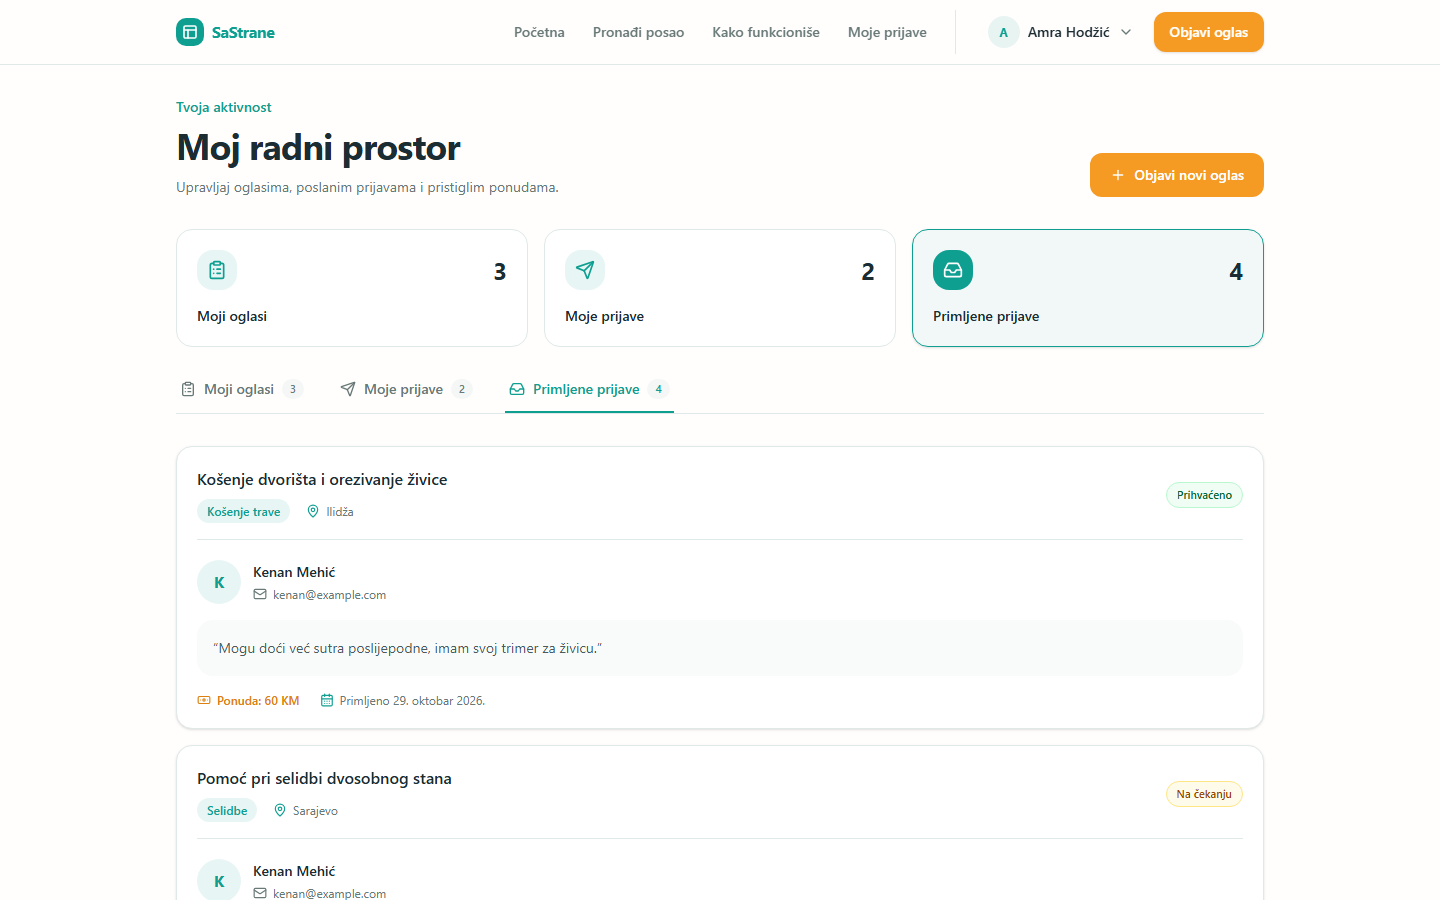
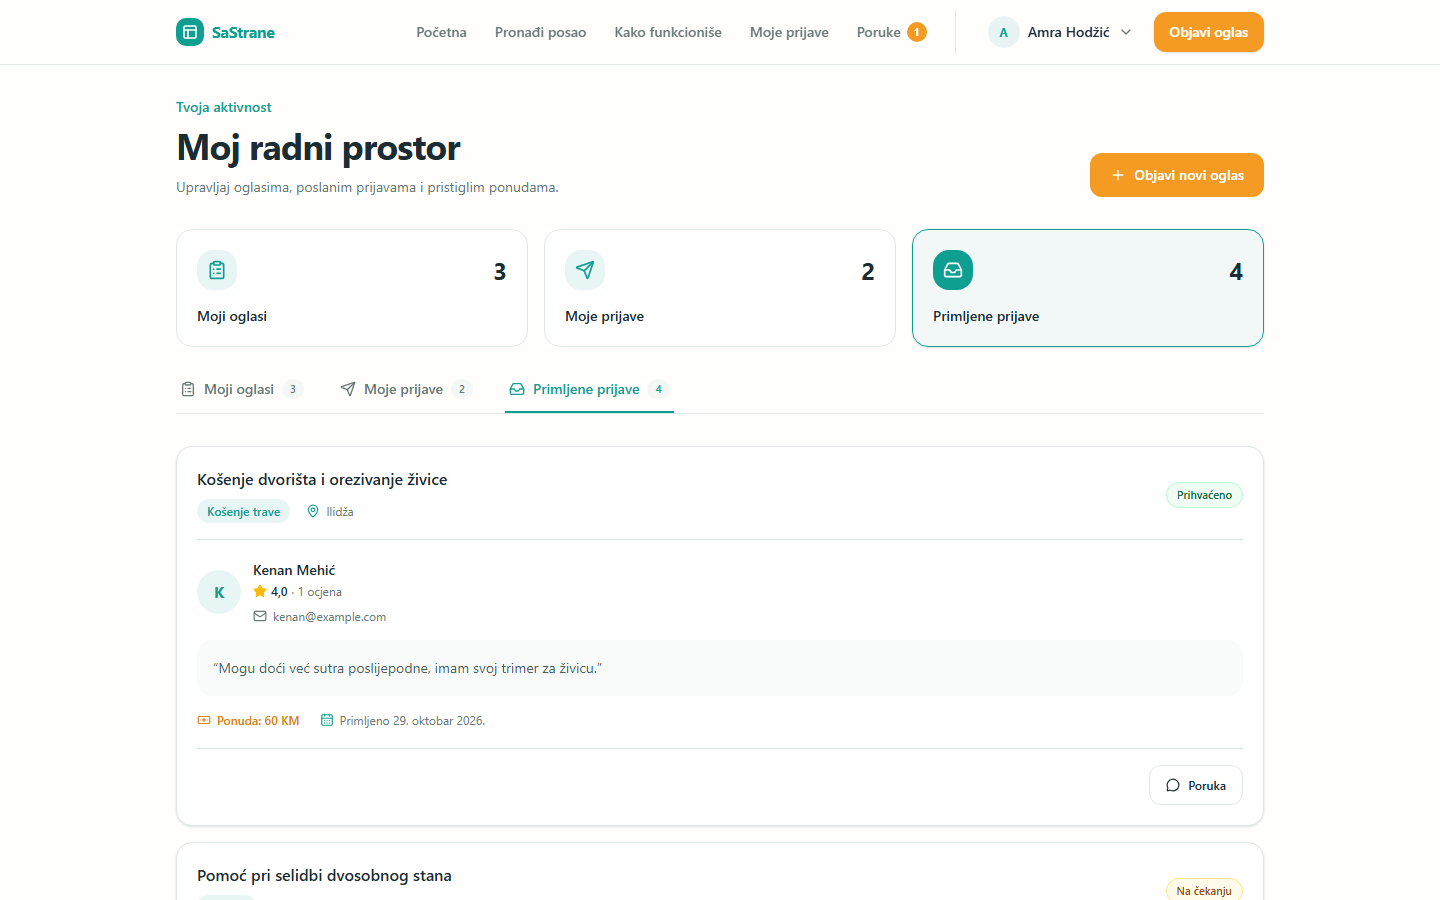
docs: retake the README screenshots with job photos
The seed uploads seven CC0 demo photos and skips them when storage is down. Adds the messages and public profile screenshots.

diff --git a/backend/prisma/seed.ts b/backend/prisma/seed.ts
@@ -1,12 +1,17 @@
-// Demo data for local development: four users, ten jobs, seven applications,
-// two ratings and three conversations, with Bosnian text as in real use.
-// Every demo user signs in with the password below.
+// Demo data for local development: four users, ten jobs, seven photos,
+// seven applications, two ratings and three conversations, with Bosnian
+// text as in real use. Every demo user signs in with the password below.
 //
 // Run it with `npx prisma db seed`. It upserts fixed IDs, so a second run
-// changes nothing, and it never deletes data.
+// changes nothing, and it never deletes data. The photos need the storage
+// from docker-compose.yml and `npm run storage:init`; without it, the seed
+// skips them.
 import { existsSync } from 'node:fs';
+import { readFile } from 'node:fs/promises';
+import { HeadBucketCommand, PutObjectCommand } from '@aws-sdk/client-s3';
 import { PrismaPg } from '@prisma/adapter-pg';
 import bcrypt from 'bcrypt';
+import { validateStorage } from '../src/config/environment.js';
 import { PrismaClient } from '../src/generated/prisma/client.js';
 import {
   ApplicationStatus,
@@ -14,6 +19,9 @@ import {
   ListingLocation,
   ListingStatus,
 } from '../src/generated/prisma/enums.js';
+import { processPhoto } from '../src/listings/photos/photo-image.js';
+import { photoKeys } from '../src/listings/photos/photo-keys.js';
+import { createS3Client, IMMUTABLE_CACHE } from '../src/storage/s3-client.js';
 
 const DEMO_PASSWORD = 'demo-password-123';
 const HOUR_MS = 60 * 60 * 1000;
@@ -234,6 +242,38 @@ const applications = [
   },
 ];
 
+// Photos from prisma/seed-photos, listed in SOURCES.md there. A job's
+// first photo is its cover.
+const photos = [
+  {
+    id: 'seed-photo-lawn-1',
+    listingId: 'seed-listing-lawn',
+    file: 'lawn-1.jpg',
+  },
+  {
+    id: 'seed-photo-lawn-2',
+    listingId: 'seed-listing-lawn',
+    file: 'lawn-2.jpg',
+  },
+  {
+    id: 'seed-photo-lawn-3',
+    listingId: 'seed-listing-lawn',
+    file: 'lawn-3.jpg',
+  },
+  { id: 'seed-photo-car', listingId: 'seed-listing-car', file: 'car.jpg' },
+  {
+    id: 'seed-photo-cleaning',
+    listingId: 'seed-listing-cleaning',
+    file: 'cleaning.jpg',
+  },
+  {
+    id: 'seed-photo-fence',
+    listingId: 'seed-listing-fence',
+    file: 'fence.jpg',
+  },
+  { id: 'seed-photo-tv', listingId: 'seed-listing-tv', file: 'tv.jpg' },
+];
+
 // Ratings for accepted applications on closed jobs. The lawn job is still
 // open, so Amra can close it and rate Kenan herself.
 const ratings = [
@@ -326,6 +366,65 @@ const conversations: {
   },
 ];
 
+// Uploads the photos that are not in the database yet, as the API would.
+// Returns how many it added, or null when the storage is not reachable.
+async function seedPhotos(prisma: PrismaClient): Promise<number | null> {
+  const seeded = await prisma.listingPhoto.findMany({
+    where: { id: { in: photos.map((photo) => photo.id) } },
+    select: { id: true },
+  });
+  const done = new Set(seeded.map((photo) => photo.id));
+  const missing = photos.filter((photo) => !done.has(photo.id));
+  if (missing.length === 0) return 0;
+
+  const storage = validateStorage(process.env, false);
+  const client = createS3Client(storage);
+  const Bucket = storage.S3_BUCKET;
+  try {
+    try {
+      await client.send(new HeadBucketCommand({ Bucket }));
+    } catch {
+      return null;
+    }
+
+    for (const photo of missing) {
+      const input = await readFile(
+        new URL(`seed-photos/${photo.file}`, import.meta.url),
+      );
+      const { large, thumbnail } = await processPhoto(input);
+      const keys = photoKeys(photo.listingId, photo.id);
+      for (const [Key, Body] of [
+        [keys.large, large.data],
+        [keys.thumbnail, thumbnail],
+      ] as const) {
+        await client.send(
+          new PutObjectCommand({
+            Bucket,
+            Key,
+            Body,
+            ContentType: 'image/webp',
+            CacheControl: IMMUTABLE_CACHE,
+          }),
+        );
+      }
+      await prisma.listingPhoto.create({
+        data: {
+          id: photo.id,
+          listingId: photo.listingId,
+          position: photos
+            .filter((other) => other.listingId === photo.listingId)
+            .indexOf(photo),
+          width: large.width,
+          height: large.height,
+        },
+      });
+    }
+    return missing.length;
+  } finally {
+    client.destroy();
+  }
+}
+
 async function main() {
   if (process.env.NODE_ENV === 'production') {
     throw new Error('The demo seed must not run in production.');
@@ -366,6 +465,13 @@ async function main() {
         update: {},
         create: { ...listing, createdAt: hoursAgo(age) },
       });
+    }
+
+    const addedPhotos = await seedPhotos(prisma);
+    if (addedPhotos === null) {
+      console.warn(
+        'Skipped the photos: the storage is not reachable. Run `docker compose up -d` and `npm run storage:init`, then seed again.',
+      );
     }
 
     for (const { hoursAgo: age, ...application } of applications) {
@@ -423,7 +529,7 @@ async function main() {
     }
 
     console.log(
-      `Seeded ${users.length} users, ${listings.length} jobs, ${applications.length} applications, ${ratings.length} ratings and ${conversations.length} conversations.`,
+      `Seeded ${users.length} users, ${listings.length} jobs, ${addedPhotos === null ? 0 : photos.length} photos, ${applications.length} applications, ${ratings.length} ratings and ${conversations.length} conversations.`,
     );
     console.log(`Sign in as amra@example.com with ${DEMO_PASSWORD}.`);
   } finally {

diff --git a/backend/scripts/storage-init.ts b/backend/scripts/storage-init.ts
@@ -6,10 +6,10 @@ import { existsSync } from 'node:fs';
 import {
   CreateBucketCommand,
   HeadBucketCommand,
-  S3Client,
   S3ServiceException,
 } from '@aws-sdk/client-s3';
 import { validateStorage } from '../src/config/environment.js';
+import { createS3Client } from '../src/storage/s3-client.js';
 
 // Values already in the environment win over .env.
 if (existsSync('.env')) process.loadEnvFile('.env');
@@ -18,15 +18,7 @@ const storage = validateStorage(
   process.env,
   process.env.NODE_ENV === 'production',
 );
-const client = new S3Client({
-  endpoint: storage.S3_ENDPOINT,
-  region: storage.S3_REGION,
-  forcePathStyle: storage.S3_FORCE_PATH_STYLE,
-  credentials: {
-    accessKeyId: storage.S3_ACCESS_KEY_ID,
-    secretAccessKey: storage.S3_SECRET_ACCESS_KEY,
-  },
-});
+const client = createS3Client(storage);
 const Bucket = storage.S3_BUCKET;
 
 try {

diff --git a/backend/src/storage/s3-client.ts b/backend/src/storage/s3-client.ts
@@ -1,0 +1,22 @@
+import { S3Client } from '@aws-sdk/client-s3';
+import type { validateStorage } from '../config/environment.js';
+
+export type StorageConfig = ReturnType<typeof validateStorage>;
+
+// A key is never written twice: a changed photo gets a new key. Browsers and
+// CDNs may therefore keep a file for a year.
+export const IMMUTABLE_CACHE = 'public, max-age=31536000, immutable';
+
+// For the scripts, which run without Nest: storage-init and the seed.
+export function createS3Client(storage: StorageConfig) {
+  return new S3Client({
+    endpoint: storage.S3_ENDPOINT,
+    region: storage.S3_REGION,
+    forcePathStyle: storage.S3_FORCE_PATH_STYLE,
+    credentials: {
+      accessKeyId: storage.S3_ACCESS_KEY_ID,
+      secretAccessKey: storage.S3_SECRET_ACCESS_KEY,
+    },
+    maxAttempts: 2,
+  });
+}

diff --git a/backend/src/storage/storage.service.ts b/backend/src/storage/storage.service.ts
@@ -10,10 +10,7 @@ import {
   ServiceUnavailableException,
 } from '@nestjs/common';
 import { ConfigService } from '@nestjs/config';
-
-// A key is never written twice: a changed photo gets a new key. Browsers and
-// CDNs may therefore keep a file for a year.
-const IMMUTABLE_CACHE = 'public, max-age=31536000, immutable';
+import { IMMUTABLE_CACHE } from './s3-client.js';
 
 // Files in an S3-compatible bucket whose objects anyone can read at
 // S3_PUBLIC_URL. Locally that is the SeaweedFS container.

diff --git a/README.md b/README.md
@@ -16,7 +16,9 @@ mowing, moving help or IT support, and people nearby apply to do them.
 
 ![SaStrane home page](docs/screenshots/home.png)
 
-The interface is in Bosnian. The screenshots use demo data.
+The interface is in Bosnian. The screenshots use the demo data from the
+seed. Its photos are public domain (CC0), listed in
+[`backend/prisma/seed-photos/SOURCES.md`](backend/prisma/seed-photos/SOURCES.md).
 
 ## Contents
 
@@ -85,22 +87,32 @@ be both.
 <table>
   <tr>
     <td width="50%">
-      <img src="docs/screenshots/listings.png" alt="Job list with search and filters">
-      <p align="center"><sub><b>Find a job</b>: search, category and location filters</sub></p>
+      <img src="docs/screenshots/listings.png" alt="Job list with search, filters and cover photos">
+      <p align="center"><sub><b>Find a job</b>: search, filters and cover photos</sub></p>
     </td>
     <td width="50%">
-      <img src="docs/screenshots/listing-detail.png" alt="Job detail page">
-      <p align="center"><sub><b>Job detail</b>: budget, description and client</sub></p>
+      <img src="docs/screenshots/listing-detail.png" alt="Job detail page with a photo gallery">
+      <p align="center"><sub><b>Job detail</b>: photo gallery, budget and client</sub></p>
     </td>
   </tr>
   <tr>
     <td width="50%">
+      <img src="docs/screenshots/create-listing.png" alt="Form for a new job with a photo">
+      <p align="center"><sub><b>Post a job</b>: up to five photos, the first is the cover</sub></p>
+    </td>
+    <td width="50%">
       <img src="docs/screenshots/inbox.png" alt="Workspace with received applications">
       <p align="center"><sub><b>Workspace</b>: received applications and their status</sub></p>
     </td>
+  </tr>
+  <tr>
     <td width="50%">
-      <img src="docs/screenshots/create-listing.png" alt="Form for a new job">
-      <p align="center"><sub><b>Post a job</b></sub></p>
+      <img src="docs/screenshots/messages.png" alt="Conversation between a client and an executor">
+      <p align="center"><sub><b>Messages</b>: one conversation per job and executor</sub></p>
+    </td>
+    <td width="50%">
+      <img src="docs/screenshots/user-profile.png" alt="Public profile with ratings">
+      <p align="center"><sub><b>Public profile</b>: ratings from clients</sub></p>
     </td>
   </tr>
   <tr>
@@ -372,7 +384,7 @@ npm run start:dev
 
 The example `.env` works with the Docker containers as it is.
 `npm run storage:init` creates the photo bucket. The seed adds
-demo users, jobs and applications. Sign in as `amra@example.com` with the
+demo users, jobs with photos, applications, ratings and messages. Sign in as `amra@example.com` with the
 password `demo-password-123`. Email codes for new accounts are printed in
 the backend terminal while `RESEND_API_KEY` is empty.
 

diff --git a/backend/prisma/seed-photos/SOURCES.md b/backend/prisma/seed-photos/SOURCES.md
@@ -1,0 +1,14 @@
+# Seed photos
+
+Demo photos for `npx prisma db seed`. All are CC0 1.0 (public domain), found
+through [Openverse](https://openverse.org) and resized to at most 1024 px.
+
+| File           | Source                                                                                                             |
+| -------------- | ------------------------------------------------------------------------------------------------------------------ |
+| `lawn-1.jpg`   | [Free man lawn mower image](https://www.rawpixel.com/image/5927704/photo-image-public-domain-people-free)          |
+| `lawn-2.jpg`   | [Lawn mower](https://www.rawpixel.com/image/6035725/lawn-mower-free-public-domain-cc0-image)                       |
+| `lawn-3.jpg`   | [Green hedge](https://www.rawpixel.com/image/6060468/free-public-domain-cc0-photo)                                 |
+| `car.jpg`      | [Free car washing image](https://www.rawpixel.com/image/5917984/image-light-public-domain-logo)                    |
+| `cleaning.jpg` | [Sweeping floor](https://www.rawpixel.com/image/5919765/sweeping-the-floor-free-public-domain-cc0-photo)           |
+| `fence.jpg`    | [Wooden fence, countryside landscape](https://www.rawpixel.com/image/6037373/photo-image-public-domain-tree-plant) |
+| `tv.jpg`       | [Living room](https://www.rawpixel.com/image/5959052/free-public-domain-cc0-photo)                                 |

diff --git a/backend/README.md b/backend/README.md
@@ -94,8 +94,11 @@ after every install and every schema change.
 | Browse the data | `npx prisma studio` |
 | Start over with an empty database | `docker compose down -v`, then `docker compose up -d`, migrate again and run `npm run storage:init` |
 
-The seed in `prisma/seed.ts` adds four users, ten jobs, seven applications,
-two ratings and three conversations. Every demo user signs in with
+The seed in `prisma/seed.ts` adds four users, ten jobs, seven photos, seven
+applications, two ratings and three conversations. The photos come from
+`prisma/seed-photos` and need the storage container and
+`npm run storage:init`. When the storage is not reachable, as in CI, the
+seed skips them with a warning. Every demo user signs in with
 `demo-password-123`, for example as `amra@example.com`. The seed only adds missing rows, so it is safe to run
 again, and it refuses to run with `NODE_ENV=production`.
 
